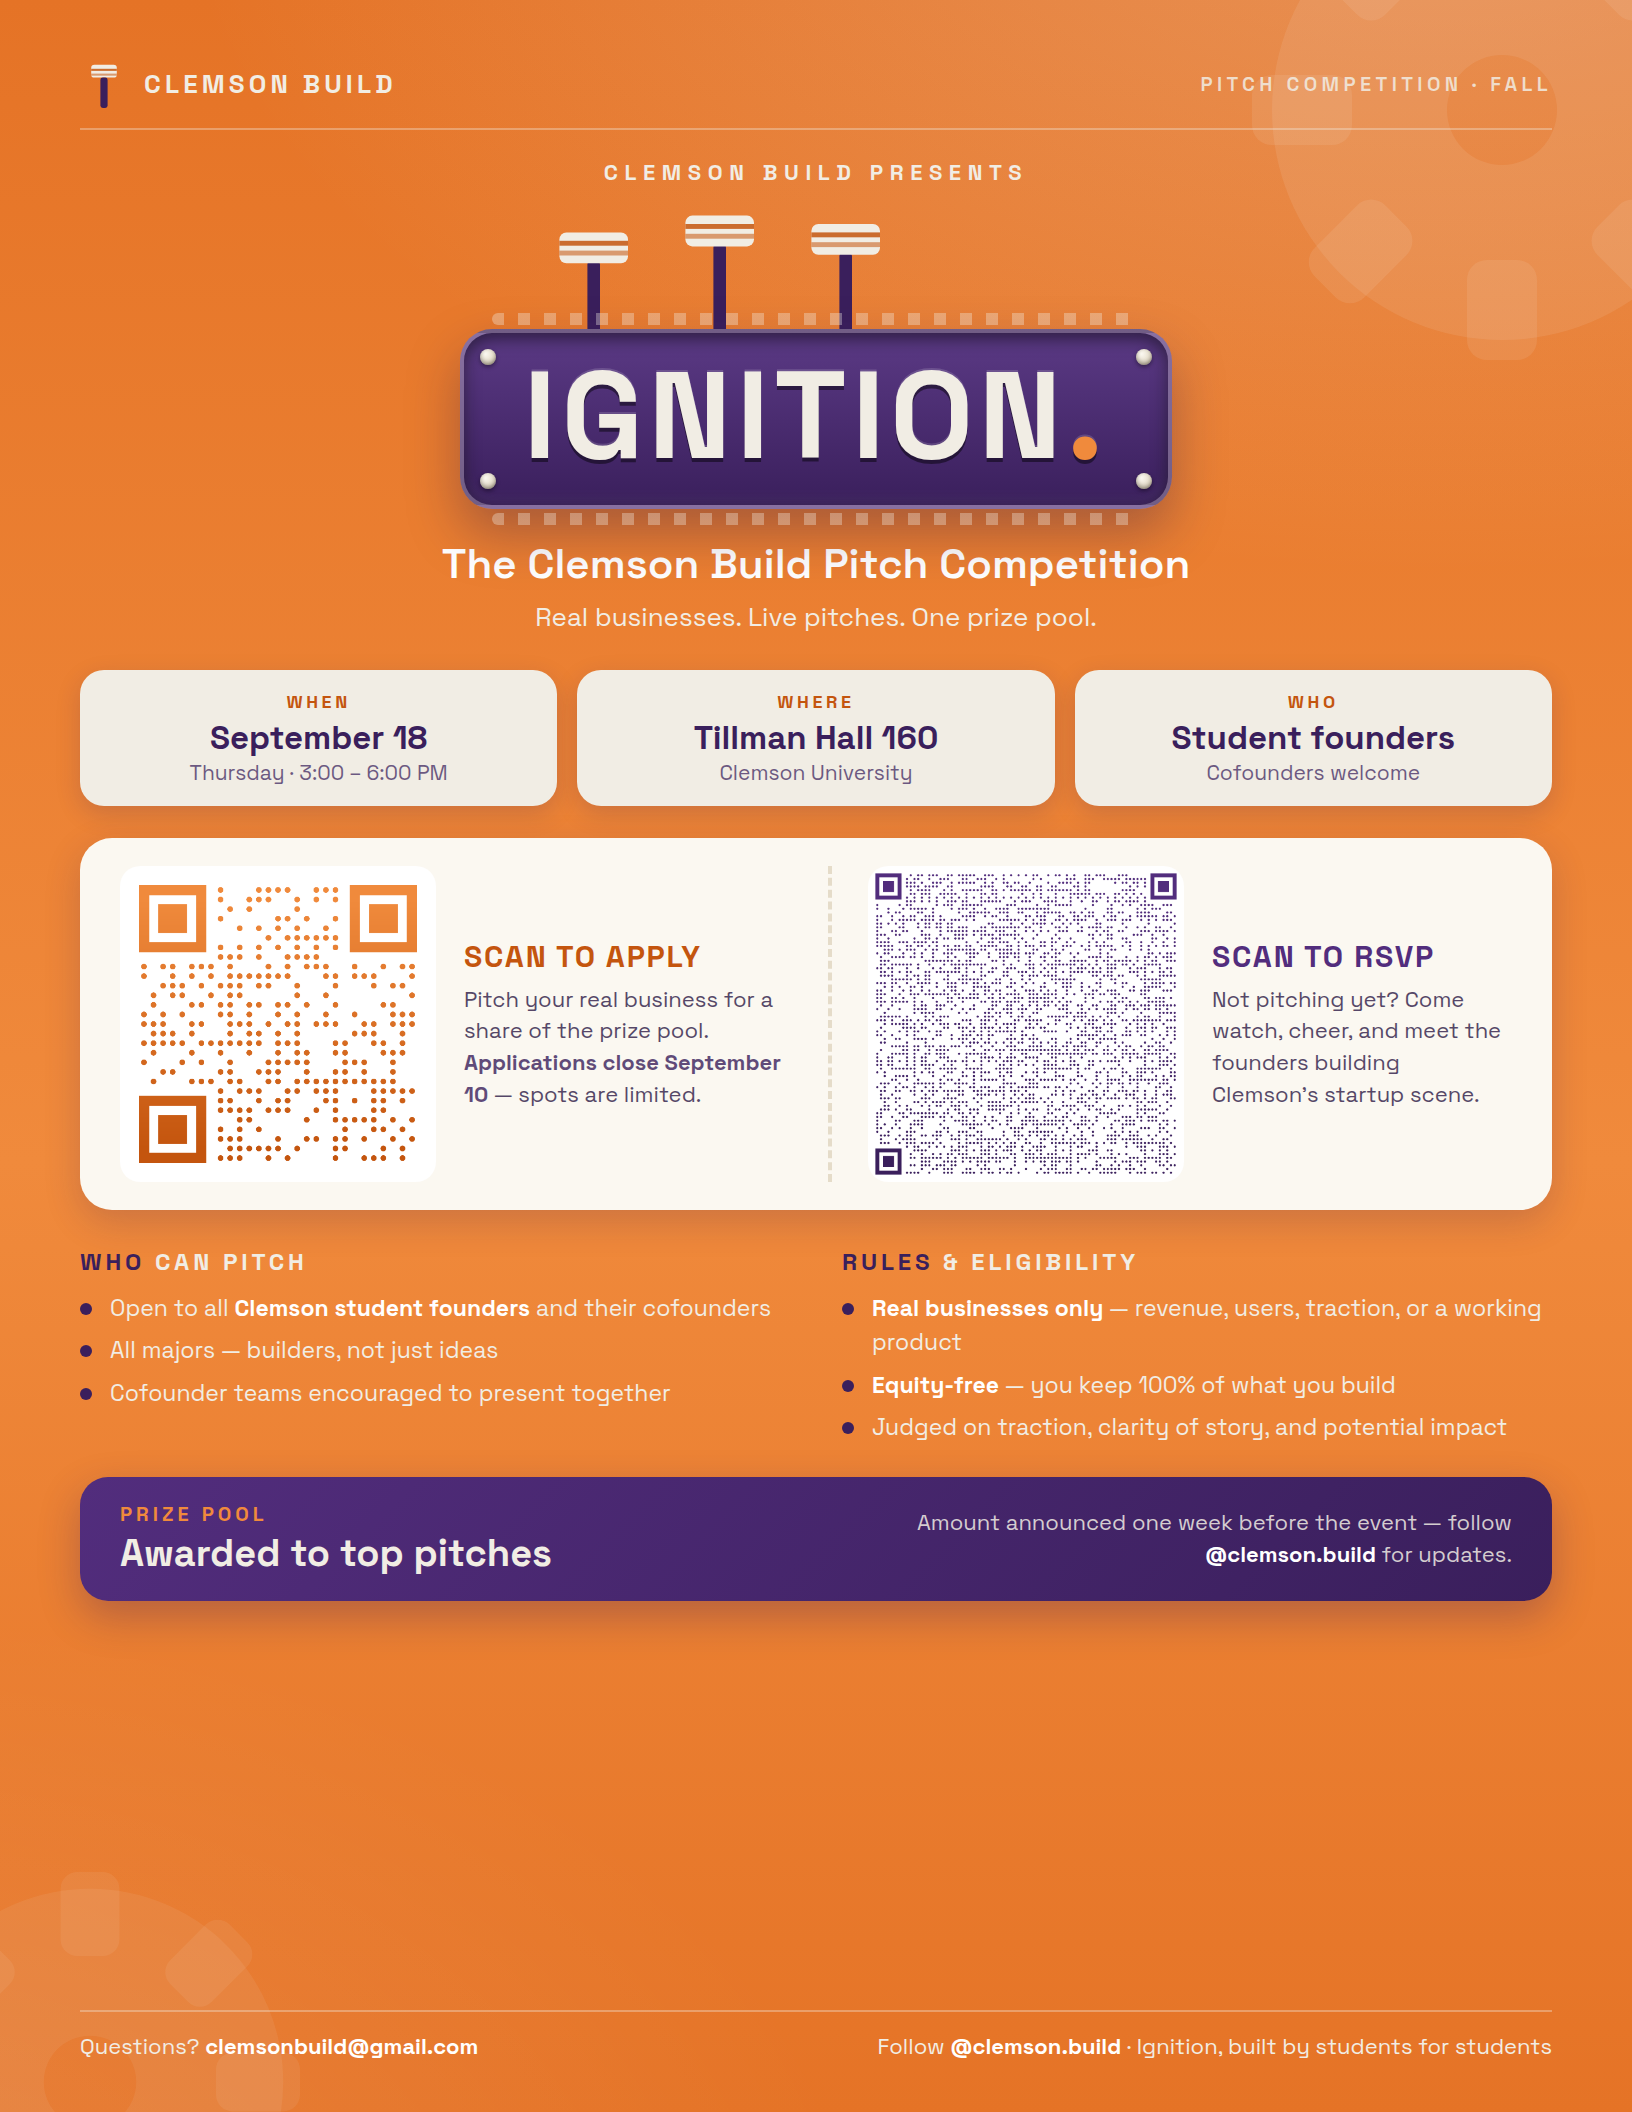
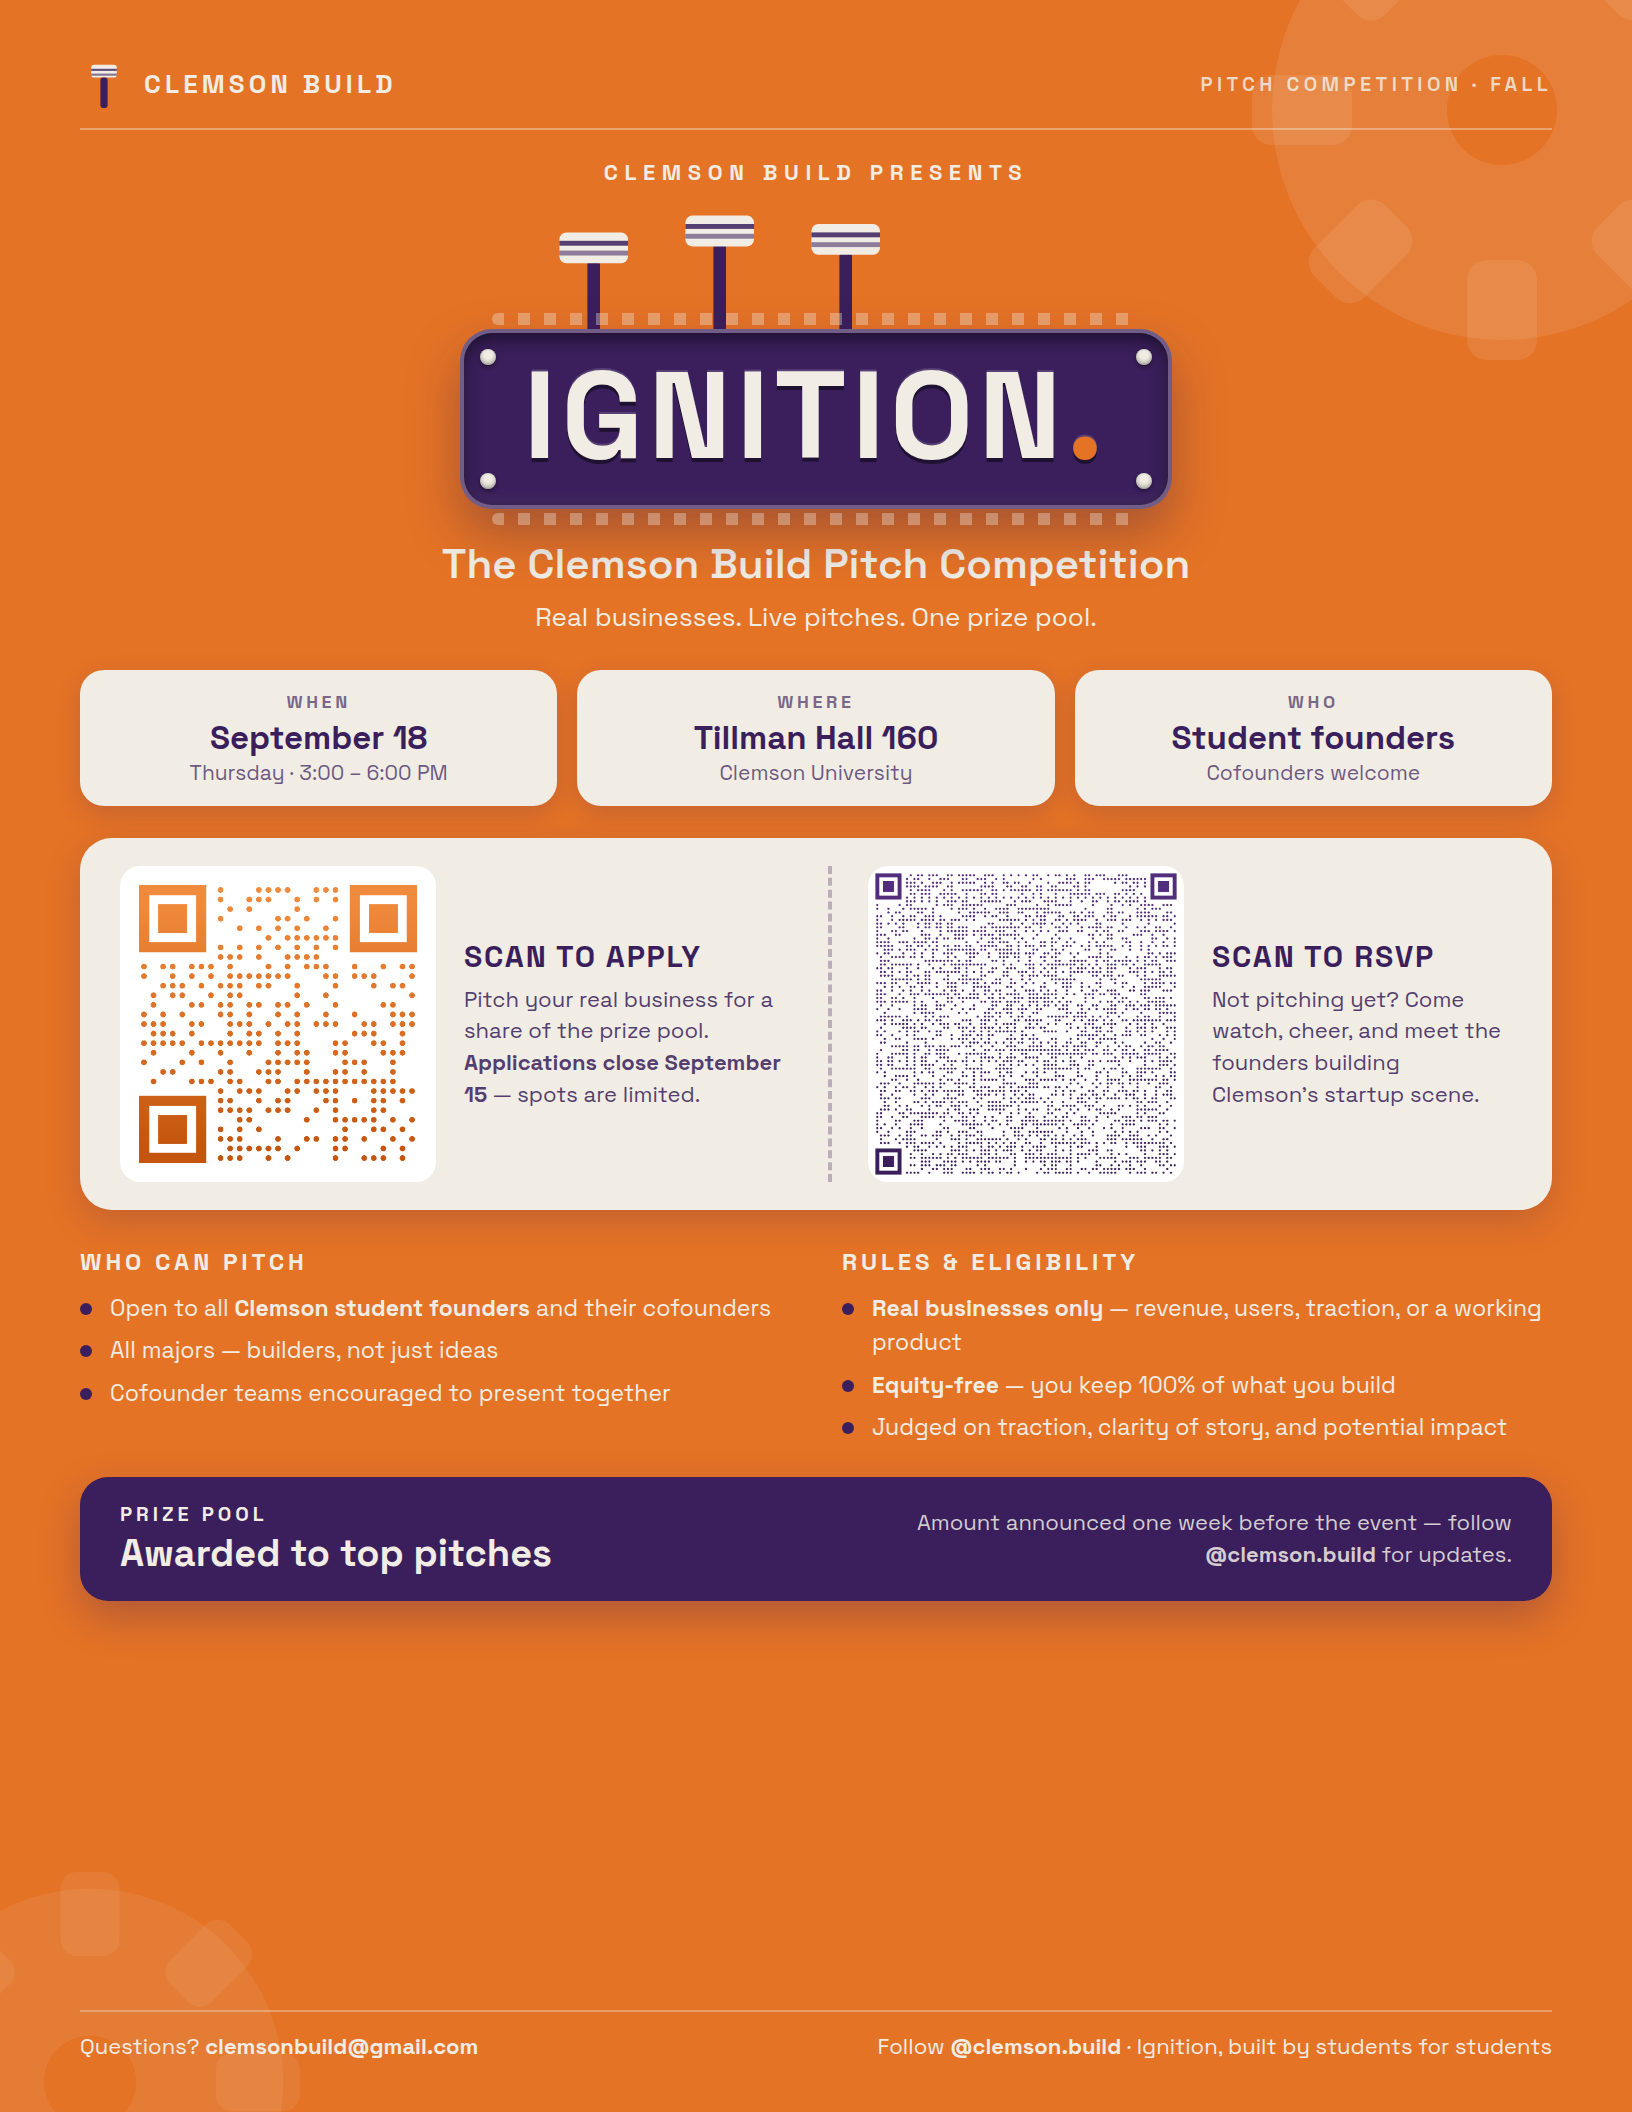
Flyer: simplify to three colors (orange/beige/purple); deadline to Sept 15
Drops gradient tints, cream/sand shades, mid-tone purple, and white text —
everything is now brand orange, beige, or deep purple, including the engine
plate and prize strip (solid, no gradients). QR codes remain as generated.
Re-rendered flyer-print.png; gauge caption/aria and competitor card deadline
also moved to September 15.

diff --git a/flyer/flyer.html b/flyer/flyer.html
@@ -14,10 +14,11 @@
     .flyer { box-shadow: none; }
   }
 
+  /* Three-color discipline: orange background, beige accent, purple ink */
   :root {
-    --orange: #E57326; --orange-bright: #F08A3C; --orange-deep: #C4550E; --orange-dark: #9C3F07;
-    --beige: #F1EDE4; --cream: #FBF8F1; --sand: #E5DCC9;
-    --purple: #522D7D; --purple-deep: #3A1F5C;
+    --orange: #E57326;
+    --beige:  #F1EDE4;
+    --purple: #3A1F5C;
   }
 
   * { box-sizing: border-box; margin: 0; padding: 0; }
@@ -31,11 +32,8 @@
     width: 8.5in; height: 11in;
     margin: 0 auto;
     position: relative; overflow: hidden;
-    background:
-      radial-gradient(900px 500px at 88% -6%, rgba(241,237,228,0.26), transparent 70%),
-      radial-gradient(800px 520px at -10% 108%, rgba(255,255,255,0.10), transparent 65%),
-      linear-gradient(180deg, var(--orange) 0%, var(--orange-bright) 55%, var(--orange) 100%);
-    color: var(--purple-deep);
+    background: var(--orange);
+    color: var(--purple);
     box-shadow: 0 14px 40px rgba(46,26,71,0.3);
   }
 
@@ -54,7 +52,7 @@
   /* ---------- Header ---------- */
   header {
     display: flex; justify-content: space-between; align-items: center;
-    border-bottom: 1px solid rgba(241,237,228,0.35);
+    border-bottom: 1px solid rgba(241,237,228,0.4);
     padding-bottom: 10px;
   }
   .brand { display: flex; align-items: center; gap: 8px; color: var(--beige); font-weight: 700; letter-spacing: 0.16em; font-size: 13px; }
@@ -69,13 +67,13 @@
   }
   .engine-lockup { display: inline-block; position: relative; }
   .pistons { display: block; width: 210px; height: auto; margin: 0 0 -5px 7%; position: relative; z-index: 0; }
-  .pistons .rod { fill: var(--purple-deep); }
+  .pistons .rod { fill: var(--purple); }
   .pistons .head { fill: var(--beige); }
-  .pistons .ring { fill: var(--orange-deep); opacity: 0.85; }
+  .pistons .ring { fill: var(--purple); opacity: 0.85; }
   .pistons .ring.r2 { opacity: 0.55; }
   .engine-plate {
     position: relative; z-index: 1; display: inline-block;
-    background: linear-gradient(180deg, #5B3A85 0%, var(--purple-deep) 100%);
+    background: var(--purple);
     border: 2px solid rgba(241,237,228,0.30);
     border-radius: 16px;
     padding: 10px 30px 14px;
@@ -86,7 +84,7 @@
     letter-spacing: 0.04em; line-height: 1;
     text-shadow: 0 2px 0 rgba(0,0,0,0.45), 0 -1px 0 rgba(255,255,255,0.15);
   }
-  .engine-plate .dot { color: var(--orange-bright); }
+  .engine-plate .dot { color: var(--orange); }
   .engine-plate::before, .engine-plate::after {
     content: ""; position: absolute; left: 14px; right: 14px; height: 6px; border-radius: 3px;
     background: repeating-linear-gradient(90deg, rgba(241,237,228,0.35) 0 6px, transparent 6px 13px);
@@ -95,13 +93,13 @@
   .engine-plate::after { bottom: -10px; }
   .bolt {
     position: absolute; width: 8px; height: 8px; border-radius: 50%;
-    background: radial-gradient(circle at 35% 30%, var(--cream), var(--sand) 60%, #B9AC8F);
+    background: var(--beige);
     box-shadow: inset 0 -1px 2px rgba(0,0,0,0.35), 0 1px 2px rgba(0,0,0,0.4);
   }
   .b1 { top: 8px; left: 8px; } .b2 { top: 8px; right: 8px; }
   .b3 { bottom: 8px; left: 8px; } .b4 { bottom: 8px; right: 8px; }
 
-  .tagline { margin-top: 14px; font-size: 21px; font-weight: 600; color: #FFFFFF; }
+  .tagline { margin-top: 14px; font-size: 21px; font-weight: 600; color: var(--beige); }
   .hook { margin-top: 5px; font-size: 13px; color: var(--beige); }
 
   /* ---------- Meta cards ---------- */
@@ -111,27 +109,27 @@
     box-shadow: 0 4px 12px rgba(58,31,92,0.18);
     text-align: center;
   }
-  .meta-card .k { font-size: 9px; letter-spacing: 0.2em; text-transform: uppercase; color: var(--orange-deep); font-weight: 700; }
-  .meta-card .v { font-size: 16.5px; font-weight: 700; color: var(--purple-deep); margin-top: 2px; }
-  .meta-card .s { font-size: 10.5px; color: var(--purple-deep); opacity: 0.72; }
+  .meta-card .k { font-size: 9px; letter-spacing: 0.2em; text-transform: uppercase; color: var(--purple); opacity: 0.65; font-weight: 700; }
+  .meta-card .v { font-size: 16.5px; font-weight: 700; color: var(--purple); margin-top: 2px; }
+  .meta-card .s { font-size: 10.5px; color: var(--purple); opacity: 0.72; }
 
   /* ---------- QR band ---------- */
   .qr-band {
     display: grid; grid-template-columns: 1fr 1fr; gap: 12px;
     margin-top: 16px;
-    background: var(--cream);
+    background: var(--beige);
     border-radius: 16px;
     padding: 14px;
     box-shadow: 0 6px 18px rgba(58,31,92,0.2);
   }
   .qr-card { display: flex; align-items: center; gap: 14px; padding: 0 6px; }
-  .qr-card + .qr-card { border-left: 2px dashed var(--sand); padding-left: 18px; }
+  .qr-card + .qr-card { border-left: 2px dashed rgba(58,31,92,0.3); padding-left: 18px; }
   .qr-card img { width: 158px; height: 158px; border-radius: 10px; }
   .qr-info h3 { font-size: 15px; font-weight: 700; letter-spacing: 0.06em; text-transform: uppercase; }
-  .qr-info .apply { color: var(--orange-deep); }
+  .qr-info .apply { color: var(--purple); }
   .qr-info .rsvp { color: var(--purple); }
-  .qr-info p { font-size: 11px; color: var(--ink, #2E1A47); opacity: 0.8; margin-top: 4px; line-height: 1.45; }
-  .qr-info .due { font-weight: 700; color: var(--purple-deep); }
+  .qr-info p { font-size: 11px; color: var(--purple); opacity: 0.85; margin-top: 4px; line-height: 1.45; }
+  .qr-info .due { font-weight: 700; }
 
   /* ---------- Rules columns ---------- */
   .rules { display: grid; grid-template-columns: 1fr 1fr; gap: 26px; margin-top: 18px; }
@@ -139,7 +137,6 @@
     font-size: 12px; letter-spacing: 0.16em; text-transform: uppercase;
     color: var(--beige); margin-bottom: 7px; font-weight: 700;
   }
-  .rules h3 span { color: var(--purple-deep); }
   .rules ul { list-style: none; }
   .rules li {
     position: relative; padding-left: 15px;
@@ -149,23 +146,23 @@
   .rules li::before {
     content: ""; position: absolute; left: 0; top: 6px;
     width: 6px; height: 6px; border-radius: 50%;
-    background: var(--purple-deep);
+    background: var(--purple);
   }
-  .rules li strong { color: #FFFFFF; }
+  .rules li strong { color: inherit; }
 
   /* ---------- Prize strip ---------- */
   .prize {
     margin-top: 16px;
-    background: linear-gradient(135deg, var(--purple) 0%, var(--purple-deep) 100%);
+    background: var(--purple);
     border-radius: 14px;
     padding: 12px 20px;
     display: flex; align-items: center; justify-content: space-between;
     box-shadow: 0 8px 20px rgba(58,31,92,0.3);
   }
-  .prize .label { font-size: 10px; letter-spacing: 0.2em; text-transform: uppercase; color: var(--orange-bright); font-weight: 700; }
+  .prize .label { font-size: 10px; letter-spacing: 0.2em; text-transform: uppercase; color: var(--beige); font-weight: 700; }
   .prize .amount { font-size: 19px; font-weight: 700; color: var(--beige); margin-top: 1px; }
   .prize .note { font-size: 11px; color: rgba(241,237,228,0.85); text-align: right; line-height: 1.45; max-width: 46%; }
-  .prize .note strong { color: #FFFFFF; }
+  .prize .note strong { color: inherit; }
 
   /* ---------- Footer ---------- */
   footer {
@@ -175,7 +172,7 @@
     display: flex; justify-content: space-between; align-items: center;
     font-size: 11px; color: var(--beige);
   }
-  footer .ig { font-weight: 700; color: #FFFFFF; }
+  footer .ig { font-weight: 700; color: var(--beige); }
 </style>
 </head>
 <body>
@@ -186,7 +183,7 @@
     <div class="content">
       <header>
         <div class="brand">
-          <svg class="mark" viewBox="0 0 40 60" aria-hidden="true"><g><rect x="4" y="6" width="32" height="16" rx="4" fill="currentColor"/><rect x="4" y="11" width="32" height="2.6" fill="#C4550E" opacity="0.85"/><rect x="4" y="17" width="32" height="2.6" fill="#C4550E" opacity="0.55"/><rect x="15.5" y="22" width="9" height="38" rx="3" fill="#3A1F5C"/></g></svg>
+          <svg class="mark" viewBox="0 0 40 60" aria-hidden="true"><g><rect x="4" y="6" width="32" height="16" rx="4" fill="currentColor"/><rect x="4" y="11" width="32" height="2.6" fill="#3A1F5C" opacity="0.8"/><rect x="4" y="17" width="32" height="2.6" fill="#3A1F5C" opacity="0.6"/><rect x="15.5" y="22" width="9" height="38" rx="3" fill="#3A1F5C"/></g></svg>
           CLEMSON BUILD
         </div>
         <div class="h-right">Pitch Competition · Fall</div>
@@ -220,7 +217,7 @@
           <img src="qr-apply.png" alt="QR code — apply to pitch" />
           <div class="qr-info">
             <h3 class="apply">Scan to Apply</h3>
-            <p>Pitch your real business for a share of the prize pool. <span class="due">Applications close September 10</span> — spots are limited.</p>
+            <p>Pitch your real business for a share of the prize pool. <span class="due">Applications close September 15</span> — spots are limited.</p>
           </div>
         </div>
         <div class="qr-card">

diff --git a/index.html b/index.html
@@ -285,7 +285,7 @@
 			<section class="section" id="apply">
 				<div class="container">
 					<div class="apply-card">
-						<svg class="gauge" viewBox="0 0 200 126" role="img" aria-label="Tachometer reading high — applications close September 10">
+						<svg class="gauge" viewBox="0 0 200 126" role="img" aria-label="Tachometer reading high — applications close September 15">
 						  <circle class="g-face" cx="100" cy="104" r="90"/>
 						  <path class="g-track" d="M22 104 A78 78 0 0 1 178 104"/>
 						  <path class="g-arc" d="M22 104 A78 78 0 0 1 155 48.8"/>
@@ -298,7 +298,7 @@
 						  <circle class="g-cap" cx="100" cy="104" r="10"/>
 						  <circle class="g-cap-dot" cx="100" cy="104" r="3.5"/>
 						</svg>
-						<p class="gauge-caption">Tach check — applications close <strong>September 10</strong></p>
+						<p class="gauge-caption">Tach check — applications close <strong>September 15</strong></p>
 						<h2>Ready to pitch?</h2>
 						<p>
 							Applications close <strong>September 15</strong> and are reviewed on a

diff --git a/script.js b/script.js
@@ -59,7 +59,7 @@ function renderCompetitors() {
         <article class="team-card open-slot">
           <span class="team-badge">Spot open</span>
           <h3>Your team here</h3>
-          <p class="tagline">Apply by September 10 and take the stage at Ignition.</p>
+          <p class="tagline">Apply by September 15 and take the stage at Ignition.</p>
           <p class="members">Cofounders welcome · Equity-free</p>
           <a class="btn btn-primary btn-sm" data-apply href="#apply">Apply to pitch</a>
         </article>`;

diff --git a/README.md b/README.md
@@ -22,7 +22,7 @@ a tachometer. All pure SVG/CSS — no extra assets, and animations respect
    pool"); add the amount to the flyer/apply sections when announced
 5. **Event year** — dates are shown without a year (source materials say
    September 18, a Thursday); add the year if you want it explicit
-6. Confirm Tillman Hall Room 160 booking and the September 10 deadline
+6. Confirm Tillman Hall Room 160 booking and the September 15 deadline
 
 ## Files
 
